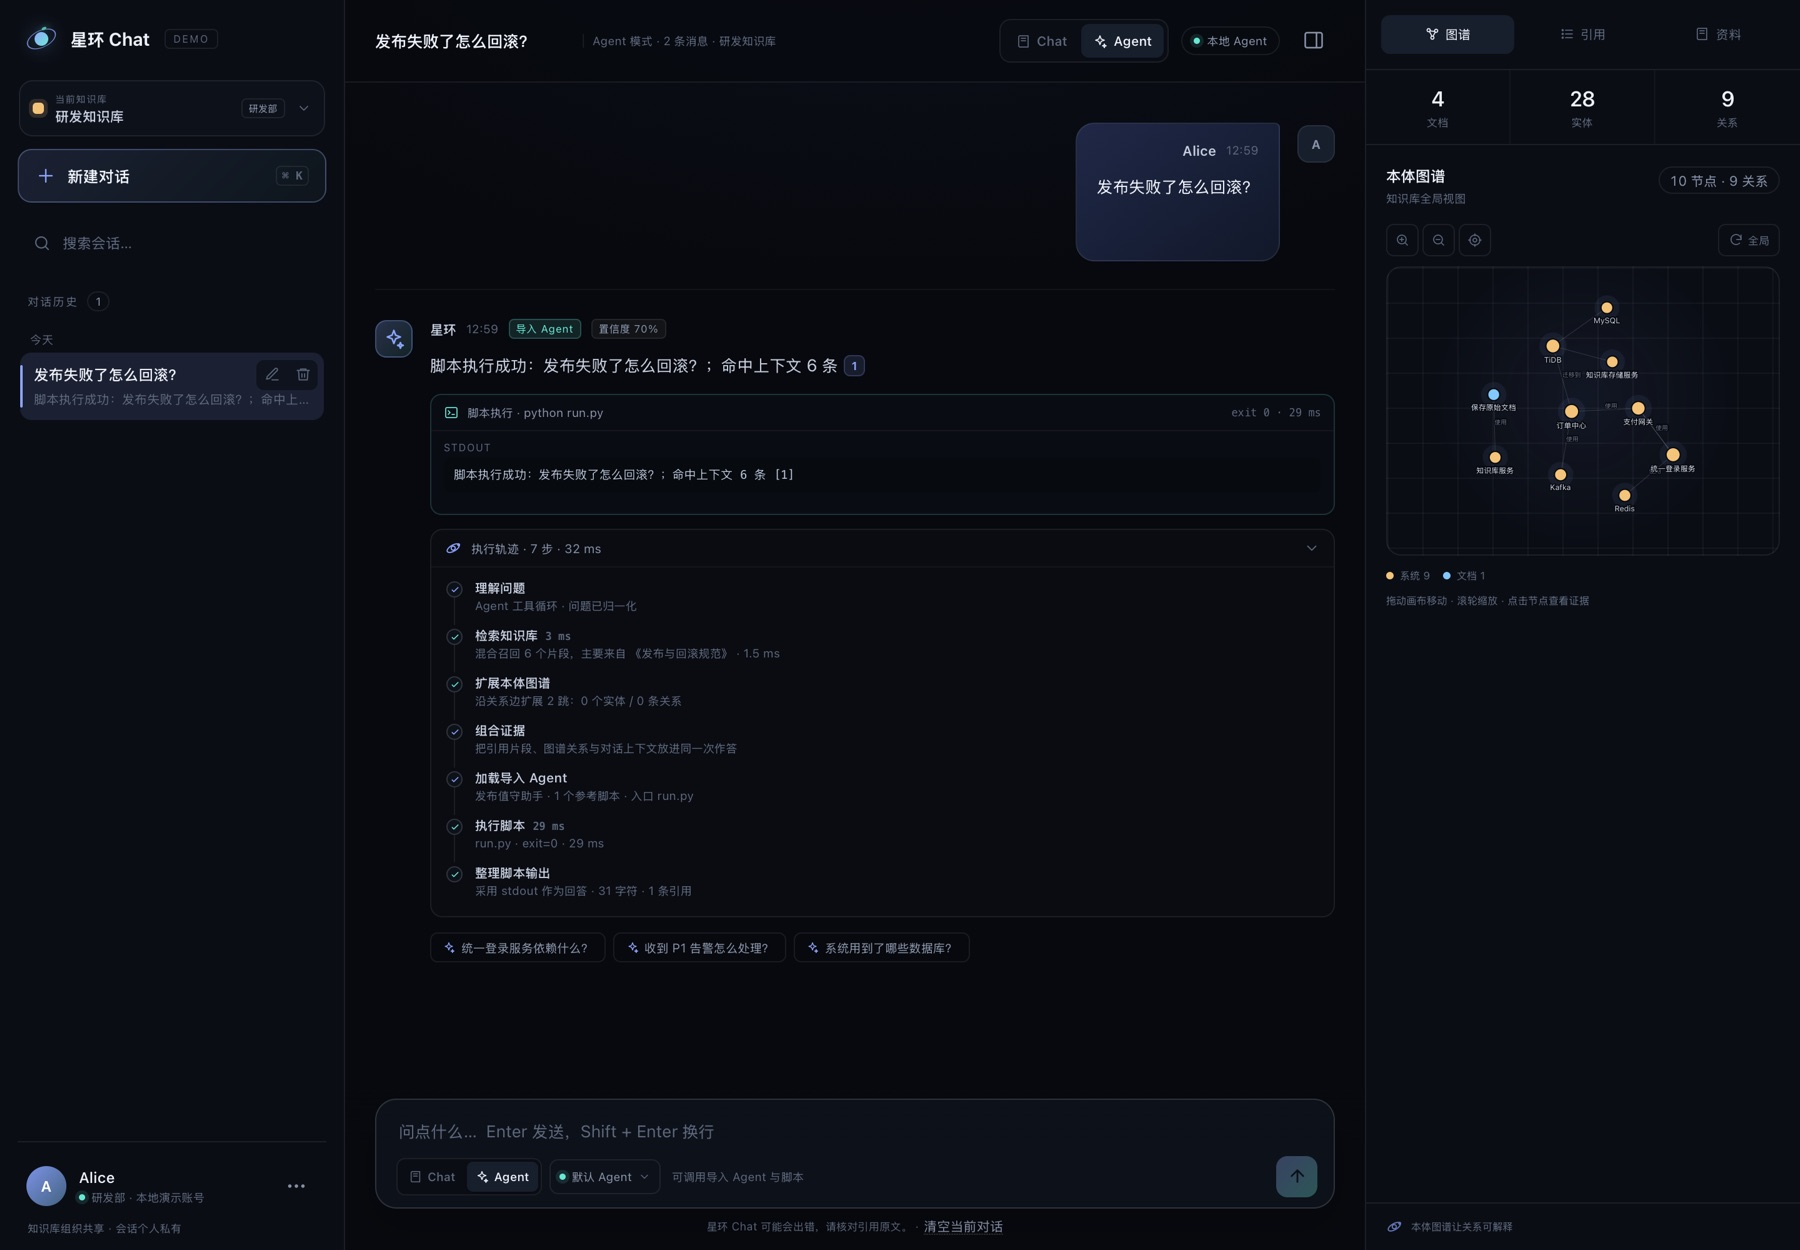
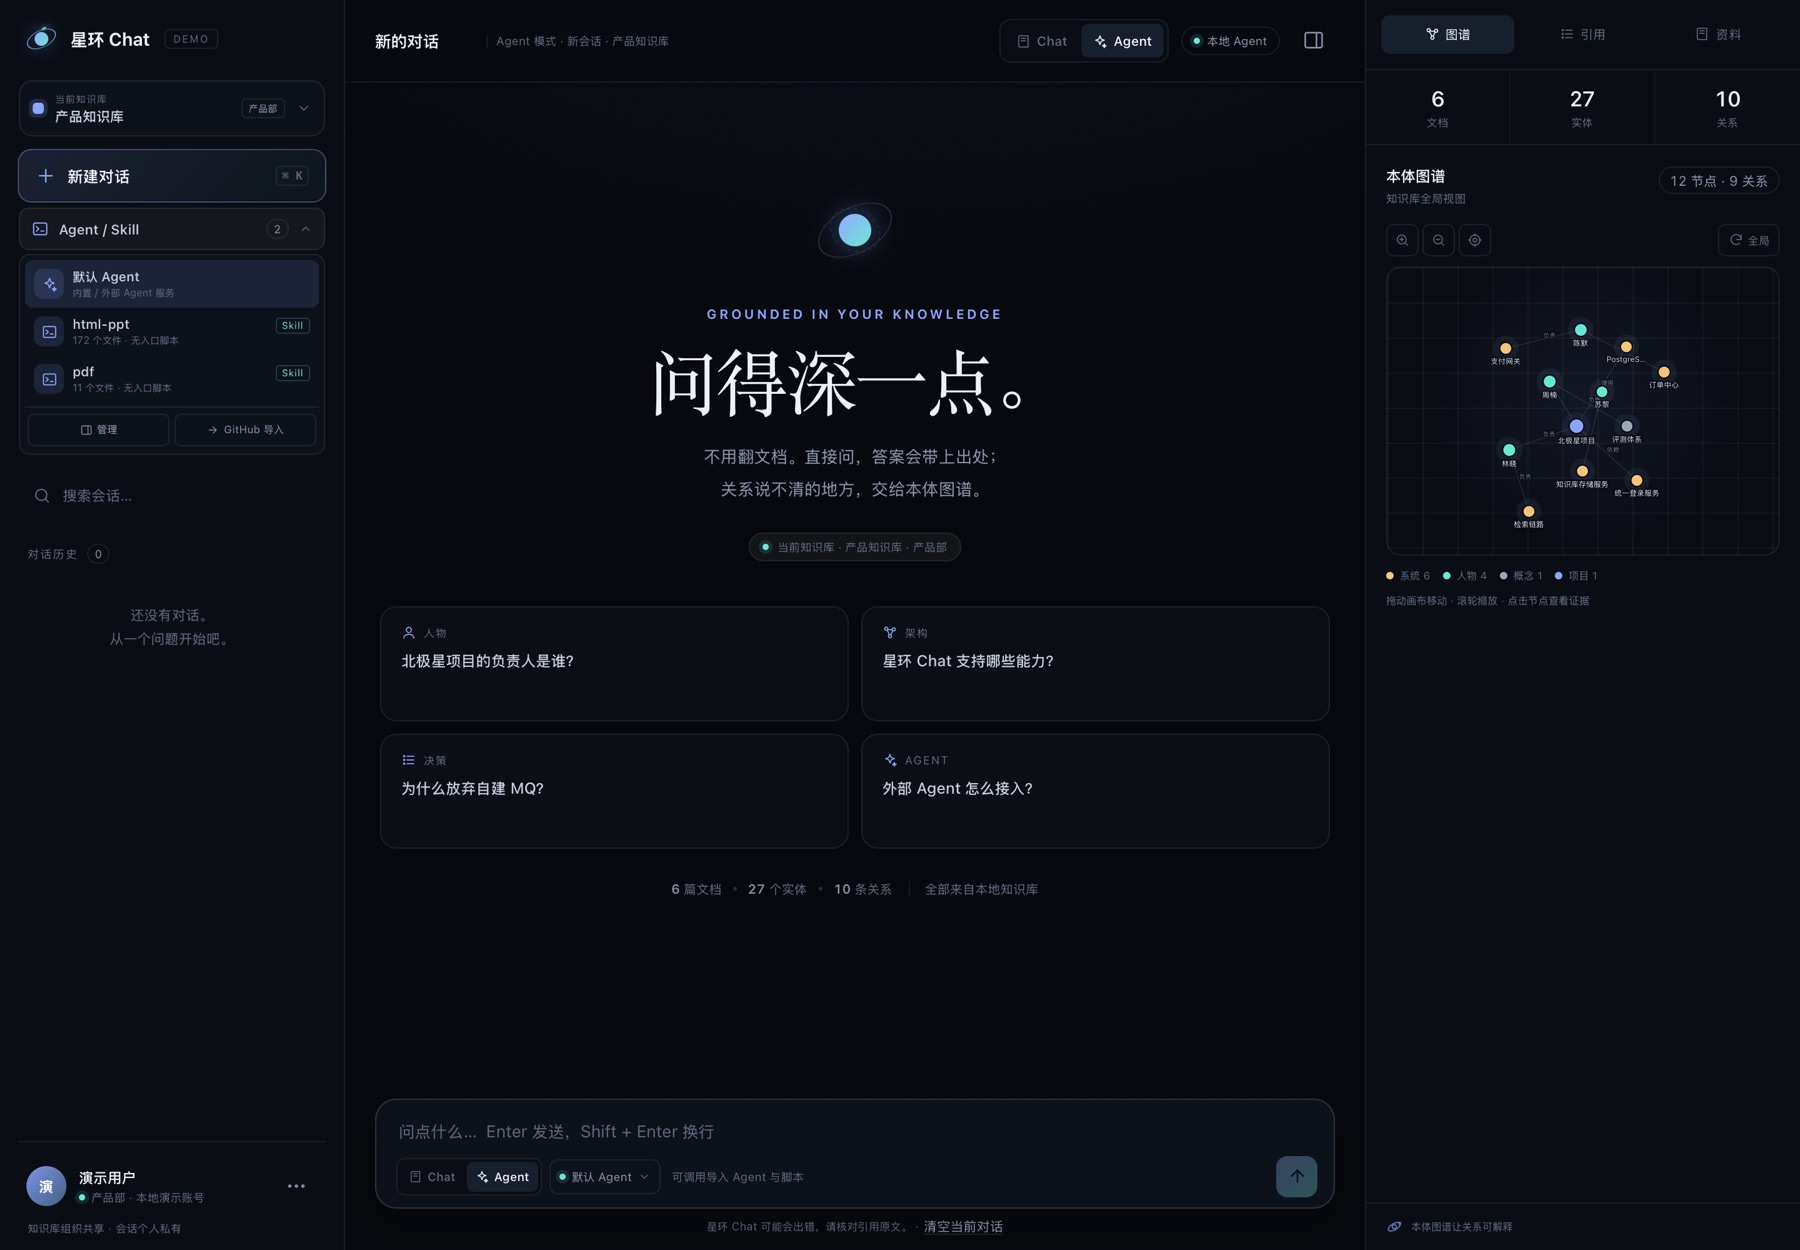
feat: import large GitHub skills via archive fallback

diff --git a/webchat/static/app.js b/webchat/static/app.js
@@ -2386,7 +2386,7 @@
     githubBox.className = "github-import";
     githubBox.innerHTML = `
       <div class="github-import-title">从 GitHub 导入 Skill / Agent</div>
-      <div class="github-import-help">粘贴仓库或目录地址，自动读取 SKILL.md / AGENT.md 和文本脚本。私有仓库需要服务端配置 GITHUB_TOKEN。</div>
+      <div class="github-import-help">粘贴仓库或目录地址，自动读取 SKILL.md / AGENT.md 和文本文件（最多 250 个 / 5MB）。私有仓库需要服务端配置 GITHUB_TOKEN。</div>
       <div class="github-row">
         <input type="text" id="github-url" placeholder="https://github.com/anthropics/skills/tree/main/skills/pdf">
         <button type="button" id="github-import-btn">导入</button>
@@ -2476,7 +2476,7 @@
     const mdPicker = agentFilePicker("Agent Markdown", ".md,.markdown,.txt", false);
     const scriptPicker = agentFilePicker(
       "参考脚本",
-      ".py,.sh,.js,.mjs,.ts,.txt,.json",
+      ".py,.sh,.js,.mjs,.ts,.txt,.json,.md,.html,.css,.svg,.xml,.yaml,.yml,.toml,.csv",
       true
     );
     let mdFile = null;
@@ -2486,7 +2486,7 @@
       showFileChips(mdPicker.chips, mdFile ? [mdFile] : []);
     });
     scriptPicker.input.addEventListener("change", () => {
-      scriptFiles = Array.from(scriptPicker.input.files || []).slice(0, 20);
+      scriptFiles = Array.from(scriptPicker.input.files || []).slice(0, 250);
       showFileChips(scriptPicker.chips, scriptFiles);
     });
 
@@ -2520,8 +2520,8 @@
         showError(error, "请选择 Agent Markdown 文件");
         return;
       }
-      if (scriptFiles.length > 20) {
-        showError(error, "最多导入 20 个脚本");
+      if (scriptFiles.length > 250) {
+        showError(error, "最多导入 250 个文件");
         return;
       }
       submit.disabled = true;
@@ -2531,7 +2531,7 @@
         const markdown = await mdFile.text();
         const files = [];
         for (const file of scriptFiles) {
-          if (file.size > 256_000) throw new Error(`${file.name} 超过 256KB`);
+          if (file.size > 512_000) throw new Error(`${file.name} 超过 512KB`);
           files.push({ name: file.name, content: await file.text() });
         }
         const data = await api("/api/agents", {

diff --git a/webchat/static/index.html b/webchat/static/index.html
@@ -324,7 +324,7 @@
                   <svg class="icon"><use href="#i-sparkle"/></svg><span>Agent</span>
                 </button>
               </div>
-              <button id="agent-picker" class="agent-picker" type="button" aria-haspopup="listbox" aria-expanded="false" title="选择 Agent">
+              <button id="agent-picker" class="agent-picker" type="button" aria-haspopup="listbox" aria-expanded="false" title="选择 Agent / Skill">
                 <span class="agent-picker-dot"></span>
                 <span id="agent-picker-label">默认 Agent</span>
                 <svg class="icon"><use href="#i-chevron"/></svg>

diff --git a/webchat/github_importer.py b/webchat/github_importer.py
@@ -12,15 +12,17 @@ Supported URL shapes:
     https://raw.githubusercontent.com/owner/repo/main/skills/pdf/SKILL.md
 
 A folder should contain SKILL.md or AGENT.md (README.md is a fallback). The
-importer includes text files up to two directory levels deep, max 20 files and
-1MB total.
+importer includes text files up to four directory levels deep, max 250 files and
+5MB total.
 """
 
 from __future__ import annotations
 
 import base64
+import io
 import os
 import re
+import zipfile
 from dataclasses import dataclass, field
 from pathlib import Path
 from typing import Any
@@ -36,6 +38,9 @@ from .agent_defs import (
 )
 
 API_BASE = os.getenv("GITHUB_API_BASE", "https://api.github.com").rstrip("/")
+ARCHIVE_BASE = "https://codeload.github.com"
+ARCHIVE_MAX_BYTES = 40 * 1024 * 1024
+ARCHIVE_MAX_UNCOMPRESSED = 80 * 1024 * 1024
 MANIFESTS = ("SKILL.md", "AGENT.md", "agent.md", "README.md")
 SKIP_DIRS = {".git", ".github", "__pycache__", "node_modules", "dist", "build", "venv", ".venv"}
 SKIP_SUFFIXES = {".png", ".jpg", ".jpeg", ".gif", ".webp", ".ico", ".pdf", ".zip", ".gz", ".tar", ".woff", ".woff2", ".ttf"}
@@ -188,6 +193,113 @@ def _decode_file(item: dict[str, Any]) -> str:
         raise GitHubImportError(f"{item.get('name')} 不是文本文件") from exc
 
 
+def _archive_bytes(owner: str, repo: str, ref: str, token: str | None) -> bytes | None:
+    """Download a codeload zip; returns None when the ref/repo is not accessible."""
+    headers = {"User-Agent": "xinghuan-chat/0.1"}
+    if token:
+        headers["Authorization"] = f"Bearer {token}"
+    for ref_kind in ("heads", "tags"):
+        url = f"{ARCHIVE_BASE}/{owner}/{repo}/zip/refs/{ref_kind}/{ref}"
+        try:
+            with httpx.stream(
+                "GET", url, headers=headers, timeout=60, follow_redirects=True
+            ) as resp:
+                if resp.status_code == 404:
+                    continue
+                if resp.status_code >= 400:
+                    raise GitHubImportError(f"GitHub 归档下载 HTTP {resp.status_code}")
+                data = bytearray()
+                for chunk in resp.iter_bytes():
+                    data.extend(chunk)
+                    if len(data) > ARCHIVE_MAX_BYTES:
+                        raise GitHubImportError("GitHub 仓库归档超过 40MB，已拒绝导入")
+                return bytes(data)
+        except httpx.HTTPError as exc:
+            raise GitHubImportError(f"GitHub 归档下载失败：{type(exc).__name__}") from exc
+    return None
+
+
+def _try_archive(
+    repo: _RepoRef,
+    *,
+    ref: str,
+    entrypoint: str | None,
+    token: str | None,
+) -> GitHubImportResult | None:
+    data = _archive_bytes(repo.owner, repo.repo, ref, token)
+    if data is None:
+        return None
+    try:
+        zf = zipfile.ZipFile(io.BytesIO(data))
+    except zipfile.BadZipFile as exc:
+        raise GitHubImportError("GitHub 归档不是合法 zip") from exc
+    names = zf.namelist()
+    if not names:
+        raise GitHubImportError("GitHub 归档为空")
+    root = names[0].split("/", 1)[0]
+    prefix = f"{root}/"
+    base_prefix = f"{prefix}{repo.path.strip('/')}/" if repo.path else prefix
+    manifest_name = repo.manifest
+    if not manifest_name:
+        candidates = []
+        for info in zf.infolist():
+            if not info.filename.startswith(base_prefix):
+                continue
+            rel = info.filename[len(base_prefix) :]
+            if rel in MANIFESTS:
+                candidates.append(rel)
+        for candidate in MANIFESTS:
+            if candidate in candidates:
+                manifest_name = candidate
+                break
+    if not manifest_name:
+        raise GitHubImportError("压缩包目录中没有 SKILL.md / AGENT.md / README.md")
+    manifest_path = f"{base_prefix}{manifest_name}"
+    try:
+        markdown = zf.read(manifest_path).decode("utf-8")
+    except (KeyError, UnicodeDecodeError) as exc:
+        raise GitHubImportError(f"无法读取 {manifest_name}") from exc
+    kind = "skill" if manifest_name.lower() == "skill.md" else "agent"
+
+    files: list[dict[str, str]] = []
+    total = 0
+    for info in zf.infolist():
+        if info.is_dir() or not info.filename.startswith(base_prefix):
+            continue
+        rel = info.filename[len(base_prefix) :]
+        if not rel or rel == manifest_name:
+            continue
+        parts = Path(rel).parts
+        if not parts or len(parts) > 4 or ".." in parts:
+            continue
+        if Path(rel).suffix.lower() not in ALLOWED_EXTENSIONS:
+            continue
+        if info.file_size > MAX_FILE_BYTES:
+            continue
+        if len(files) >= MAX_FILES:
+            raise GitHubImportError(f"文件数超过 {MAX_FILES} 个")
+        try:
+            content = zf.read(info.filename).decode("utf-8")
+        except UnicodeDecodeError:
+            continue
+        total += len(content.encode("utf-8"))
+        if total > MAX_TOTAL_BYTES:
+            raise GitHubImportError("文件总大小超过 5MB")
+        files.append({"name": rel, "content": content})
+    canonical = f"https://github.com/{repo.owner}/{repo.repo}"
+    if repo.path:
+        canonical += f"/tree/{ref}/{repo.path}"
+    return GitHubImportResult(
+        markdown=markdown,
+        files=files,
+        kind=kind,
+        source_url=canonical,
+        source_ref=ref,
+        source_path=repo.path,
+        entrypoint=(entrypoint or "").strip(),
+    )
+
+
 def import_from_github(
     url: str,
     *,
@@ -197,7 +309,17 @@ def import_from_github(
     token: str | None = None,
 ) -> GitHubImportResult:
     repo = parse_github_url(url, ref=ref, path=path)
-    client = GitHubClient(token=token or os.getenv("GITHUB_TOKEN"))
+    token = token or os.getenv("GITHUB_TOKEN")
+    if repo.ref:
+        archived = _try_archive(repo, ref=repo.ref, entrypoint=entrypoint, token=token)
+        if archived is not None:
+            return archived
+    else:
+        for candidate in ("main", "master"):
+            archived = _try_archive(repo, ref=candidate, entrypoint=entrypoint, token=token)
+            if archived is not None:
+                return archived
+    client = GitHubClient(token=token)
     try:
         info = client.repo_info(repo.owner, repo.repo)
         repo_ref = repo.ref or str(info.get("default_branch") or "main")
@@ -252,7 +374,7 @@ def import_from_github(
             content = _fetch_content(client, repo.owner, repo.repo, repo_ref, item)
             total += len(content.encode("utf-8"))
             if total > MAX_TOTAL_BYTES:
-                raise GitHubImportError("文件总大小超过 1MB")
+                raise GitHubImportError("文件总大小超过 5MB")
             files.append({"name": rel, "content": content})
 
         for item in listing if isinstance(listing, list) else []:
@@ -291,7 +413,7 @@ def _walk_dir(
     *,
     depth: int,
 ) -> None:
-    if depth > 2:
+    if depth > 4:
         return
     rel_dir = f"{base}/{directory}".strip("/")
     listing = client.contents(owner, repo, rel_dir, ref)

diff --git a/webchat/agent_defs.py b/webchat/agent_defs.py
@@ -10,8 +10,9 @@ frontmatter block:
     timeout: 10
     ---
 
-If there is no frontmatter, the first heading is the name and the first script
-becomes the entrypoint. Scripts receive the user question as argv[1] and a JSON
+If there is no frontmatter, the first heading is the name. For an Agent the
+first executable file becomes the entrypoint; a Skill only gets one from
+frontmatter or an explicit override. Scripts receive the user question as argv[1] and a JSON
 payload on stdin (question, agent markdown, RAG context).
 
 This is deliberately a *demo* executor, not a hard sandbox. It runs in a temp
@@ -29,13 +30,14 @@ from typing import Any
 
 from .util import dump_json, load_json, new_id, utcnow
 
-MAX_FILES = 20
-MAX_FILE_BYTES = 256_000
-MAX_TOTAL_BYTES = 1_000_000
+MAX_FILES = 250
+MAX_FILE_BYTES = 512_000
+MAX_TOTAL_BYTES = 5_000_000
 MAX_RUNTIME_SECONDS = 15.0
 ALLOWED_EXTENSIONS = {
     ".py", ".sh", ".js", ".mjs", ".ts", ".txt", ".json",
-    ".md", ".yaml", ".yml", ".toml", ".csv",
+    ".md", ".html", ".css", ".svg", ".xml", ".yaml", ".yml",
+    ".toml", ".csv",
 }
 RUNTIME_BY_EXT = {".py": "python", ".sh": "bash", ".js": "node", ".mjs": "node"}
 EXECUTABLE_EXTENSIONS = set(RUNTIME_BY_EXT)
@@ -179,10 +181,10 @@ def build_agent(
             raise ValueError(f"{filename} 包含二进制内容")
         size = len(content.encode("utf-8"))
         if size > MAX_FILE_BYTES:
-            raise ValueError(f"{filename} 超过 256KB")
+            raise ValueError(f"{filename} 超过 512KB")
         total += size
         if total > MAX_TOTAL_BYTES:
-            raise ValueError("脚本总大小不能超过 1MB")
+            raise ValueError("脚本总大小不能超过 5MB")
         cleaned.append({"name": filename, "content": content})
 
     meta, body = _frontmatter(markdown)

diff --git a/webchat/README.md b/webchat/README.md
@@ -152,8 +152,8 @@ https://raw.githubusercontent.com/owner/repo/main/skills/pdf/SKILL.md
 
 - 目录下优先找 `SKILL.md`，其次 `AGENT.md` / `agent.md`，最后 `README.md`；
 - `SKILL.md` → `kind=skill`，`AGENT.md` → `kind=agent`；
-- 最多 20 个文本文件、单文件 256KB、总大小 1MB，目录最多 2 层；
-- 只要文本类脚本/引用（`.py` / `.sh` / `.js` / `.mjs` / `.md` / `.txt` / `.json` / `.yaml` 等），跳过图片和二进制；
+- 最多 250 个文本文件、单文件 512KB、总大小 5MB，目录最多 4 层；
+- 只要文本类脚本/引用（`.py` / `.sh` / `.js` / `.mjs` / `.html` / `.css` / `.md` / `.json` / `.yaml` 等），跳过图片和二进制；
 - 私有仓库需要给 Web 服务配置 `GITHUB_TOKEN`；
 - 只接受 `github.com` / `raw.githubusercontent.com`，通过 GitHub API 拉取，不做任意 URL 代理。
 
@@ -213,7 +213,7 @@ timeout: 8
 - 临时工作目录，脚本文件只在该目录内材料化；
 - 环境变量清空，只保留 PATH / TMPDIR 等最小集合；
 - 单次 timeout 最大 15 秒，输出截断；
-- 最多 20 个文件、单文件 256KB、总大小 1MB；
+- 最多 250 个文件、单文件 512KB、总大小 5MB；
 - 子进程独立进程组，超时会 kill 整个进程组；
 - 脚本仍可能读取宿主文件或访问网络。**只导入你信任的脚本**，生产请放到容器 / 独立 job runner / gVisor 等强隔离环境。
 
